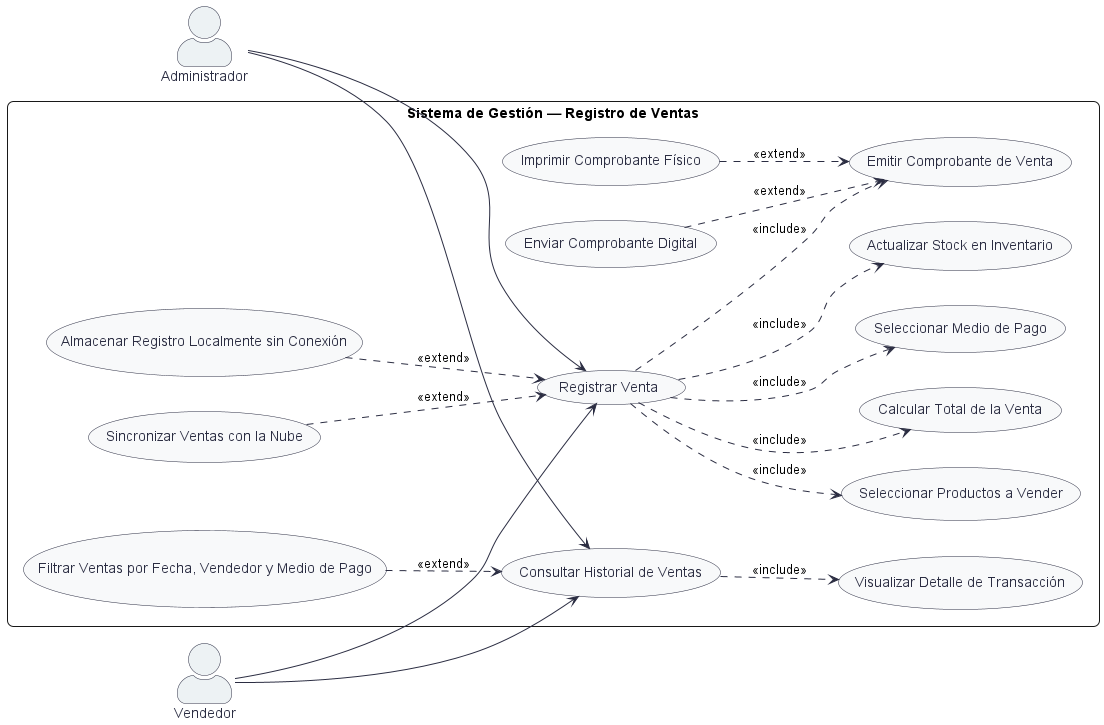
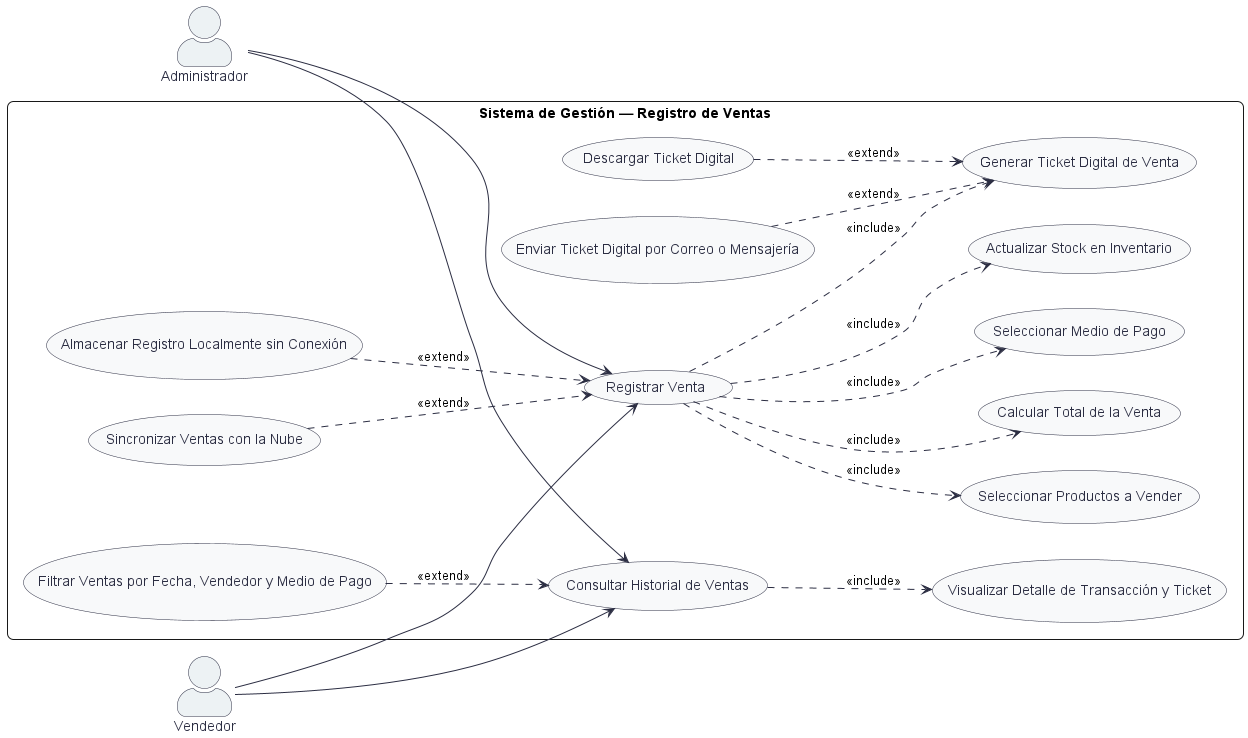
Actualiza requerimiento funcional N° 76

diff --git a/README.md b/README.md
@@ -8,9 +8,9 @@ Sistema integral de gestión de ventas, control de inventario y catálogo digita
 
 El sistema centraliza y optimiza los procesos operativos del negocio, permitiendo:
 - Control preciso de existencias sincronizado entre los dos locales comerciales.
-- Registro ágil de ventas en punto de venta (POS) y emisión de comprobantes.
+- Registro ágil de ventas en punto de venta (POS) y generación de ticket digital.
 - Catálogo web público para que los clientes consulten prendas, tallas, colores y disponibilidad en cada tienda.
-- Consulta e historial completo de transacciones realizadas.
+- Consulta e historial completo de transacciones realizadas con almacenamiento de tickets digitales.
 - Generación de reportes financieros y de inventario para la toma de decisiones.
 
 El proyecto está diseñado como una **aplicación web moderna y responsiva**, garantizando acceso inmediato desde computadoras de escritorio, tablets y teléfonos celulares sin necesidad de instalaciones complejas, con arquitectura desacoplada para admitir futuras versiones en escritorio o aplicación móvil.
@@ -34,6 +34,7 @@ El sistema se estructura en **5 módulos principales**:
 
 3. **💳 Registro y Gestión de Ventas:**
    - Punto de venta rápido compatible con múltiples medios de pago (efectivo, tarjetas, billeteras digitales).
+   - Generación y almacenamiento automático de ticket digital de venta.
    - Historial completo y auditable de transacciones comerciales.
    - Soporte para operación offline temporal y sincronización automática.
 
@@ -64,7 +65,7 @@ La especificación completa del sistema se encuentra documentada en:
 | Rol | Alcance y Responsabilidades |
 |---|---|
 | **Administrador** | Acceso total al sistema, configuración de catálogos maestros, gestión de usuarios, reseteo de credenciales, reportes gerenciales e inventario global. |
-| **Empleado (Vendedor)** | Registro de ventas, consulta de stock por tienda, emisión de comprobantes y búsqueda de productos. |
+| **Empleado (Vendedor)** | Registro de ventas, consulta de stock por tienda, generación de tickets digitales y búsqueda de productos. |
 | **Cliente** | Acceso de solo lectura al catálogo digital público para consultar prendas y disponibilidad por tienda. |
 
 ---

diff --git a/docs/requisitos_funcionales.md b/docs/requisitos_funcionales.md
@@ -620,9 +620,9 @@
 **Prioridad:** Alta
 
 **Criterios de Aceptación:**
-- Presenta el listado cronológico de ventas con comprobante, fecha/hora, local, vendedor, medio de pago y total.
+- Presenta el listado cronológico de ventas con número correlativo de ticket digital, fecha/hora, local, vendedor, medio de pago y total.
 - Permite filtrar por rango de fechas, local comercial, vendedor y medio de pago.
-- Permite consultar el desglose detallado de productos, cantidades y precios de cada venta registrada.
+- Permite consultar el desglose detallado de productos, cantidades y precios de cada venta registrada, junto con su ticket digital generado.
 
 ---
 
